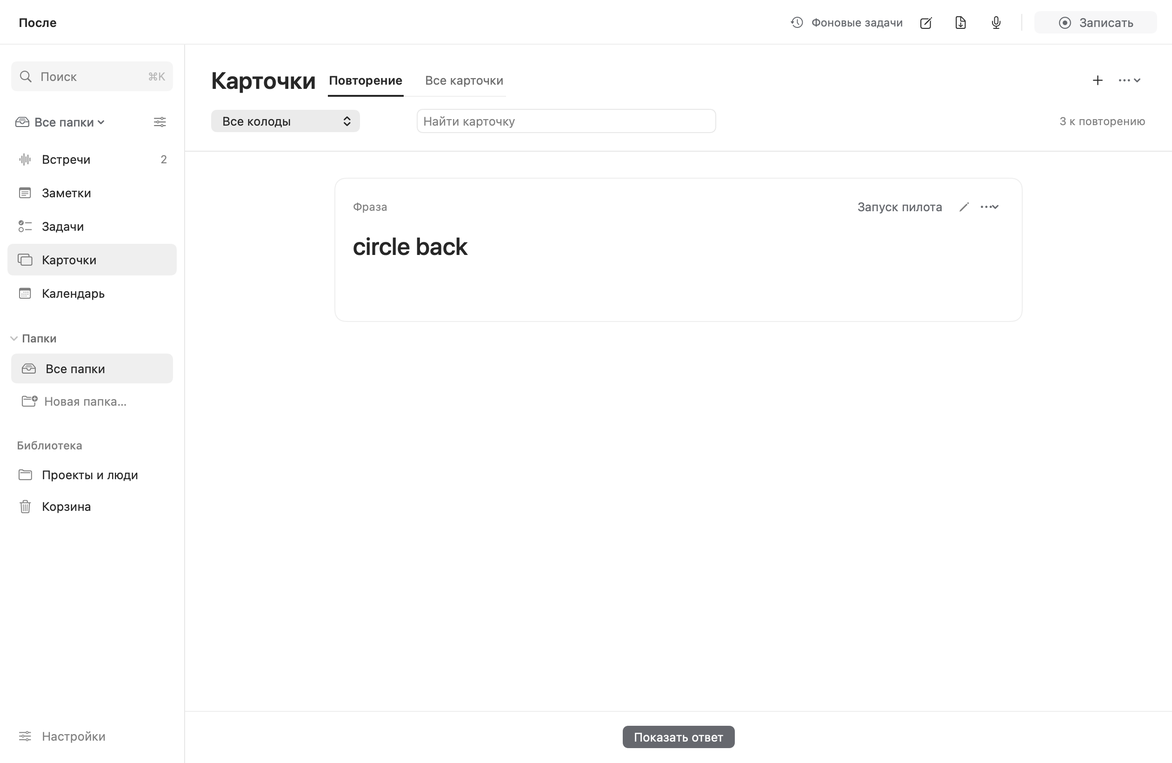
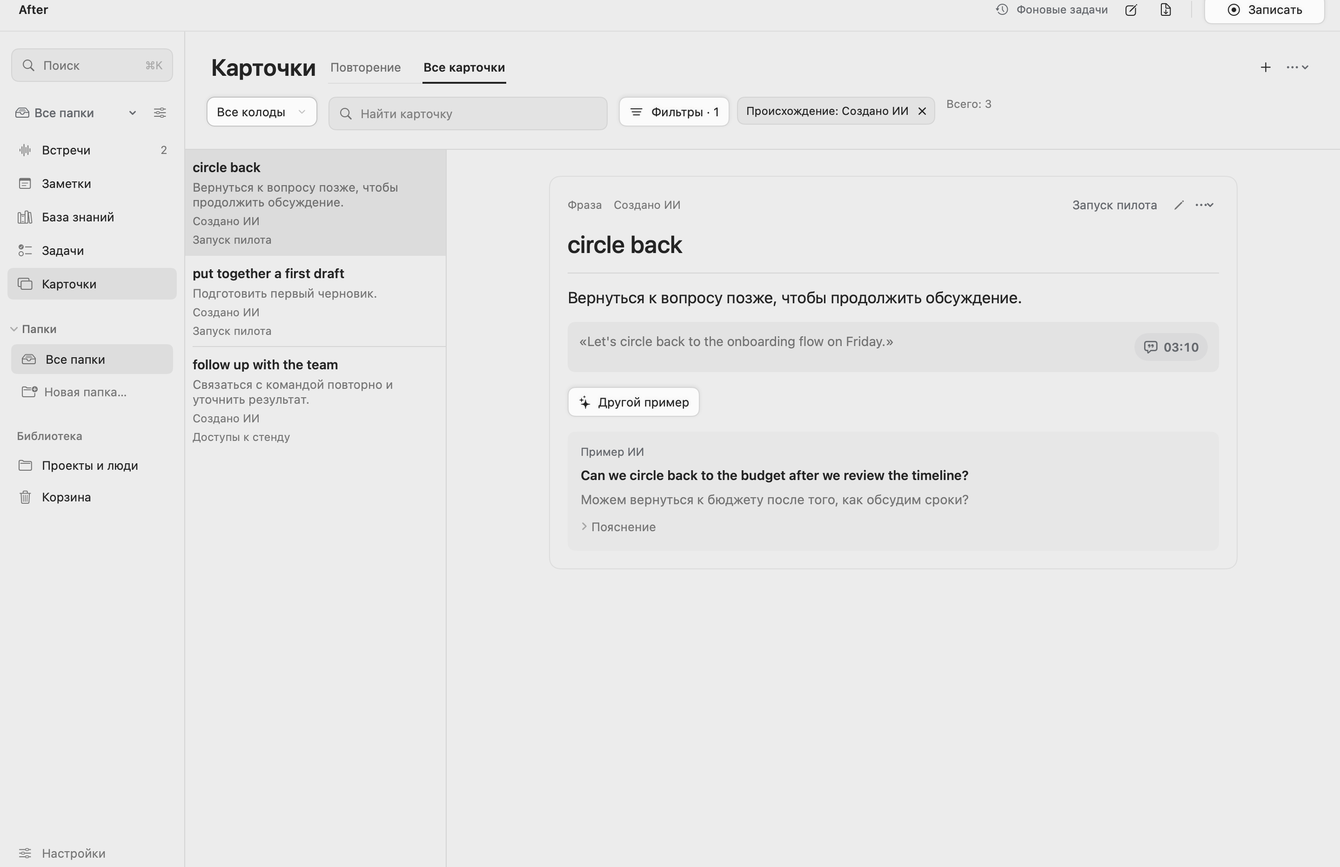
docs: refresh visual README and 0.18.3 search notes

diff --git a/README.md b/README.md
@@ -2,109 +2,59 @@
 
 # After
 
-Нативное приложение для Mac, чтобы не переслушивать встречи в поисках решений,
-задач и важных деталей. Здесь же можно вести заметки, планировать дела и повторять
-полезные фразы.
+Приложение для Mac: встречи, заметки, задачи и база знаний в одной библиотеке.
+Сохраняйте решения и возвращайтесь к источнику, когда нужны подробности.
 
-After доступен на русском и английском; название одинаково для всех языков. По умолчанию язык берётся
-из macOS; изменить его можно в **Настройки → Общие → Язык интерфейса**.
+**[Скачать последнюю версию](https://github.com/starkovsavva/after/releases/latest)**
+· Apple Silicon · macOS 15+ · RU / EN
 
-**[Скачать для Mac](https://github.com/starkovsavva/after/releases)** · Apple Silicon · macOS 15+
+**Встреча → конспект → источник.**
+Запишите разговор или импортируйте аудио. After подготовит транскрипт и конспект:
+решения, задачи и важные детали со ссылками на исходные реплики.
+Название встречи и текст можно исправить после обработки.
 
-Запишите или импортируйте встречу → получите транскрипт и конспект →
-сохраните важное в заметках.
+<a href="docs/screenshots/summary.png"><img src="docs/screenshots/summary.png" width="900" alt="Конспект встречи с решениями, задачами и переходами к исходным репликам"></a>
 
-**Начните с нужного.** Встречи, заметки, конспекты и транскрипты доступны сразу.
-Карточки, задачи и проекты, календарь, помощник, база знаний и смысловой поиск включаются
-отдельно в **Настройках → Возможности**. Выбор сохраняется при обновлении.
-Для каждой папки можно задать свои возможности, язык, стиль конспекта и модель.
-Меню папки над разделами позволяет быстро менять контекст, а значок ползунков рядом
-открывает её возможности. В **Все папки** он открывает общие значения по умолчанию.
-Список **Папки** можно свернуть — выбор и доступ к настройкам остаются под рукой.
-Разделы внутри экрана переключаются текстовыми вкладками; выбранная вкладка отмечена линией.
+**Заметки, которые легко найти.**
+Записывайте свои мысли, сохраняйте важное из встреч, добавляйте вложения.
+Поиск и совместные фильтры по происхождению, типу и теме помогают сузить список.
+Условия можно убрать по одному; выбранные фильтры сохраняются.
 
-![Конспект встречи: решения, задачи, важные детали и переходы к исходным репликам](docs/screenshots/summary.png)
+<a href="docs/screenshots/notes.png"><img src="docs/screenshots/notes.png" width="900" alt="Библиотека заметок: поиск, фильтры и редактор"></a>
 
-## Что умеет After
+**База знаний с контекстом.**
+Собирайте встречи и заметки по темам и в подборки, связывайте материалы вручную.
+Откройте найденную заметку или встречу, чтобы проверить подробности в источнике.
 
-- **[Запись и распознавание](docs/screenshots/recording.png).** Микрофон и звук Mac в MP3 с выбором качества. Экран для звука Mac или видео выбирается в системном окне macOS на каждую запись. По желанию — видео всего выбранного экрана, 30 кадров/с. Parakeet, Whisper или облачное распознавание; русский и английский, [разделение собеседников и правка реплик](docs/screenshots/transcript.png).
-- **Конспекты и заметки.** Решения, задачи, сроки и детали со ссылками на исходные реплики. Транскрипт копируется в Markdown одной кнопкой. Контекст о вашей роли и цели встречи помогает выделять главное. Свои заметки поддерживают форматирование, чеклисты, папки, теги, вложения и распознавание текста на изображениях.
-- **База знаний.** Встречи и заметки по темам, сохранённые подборки и ручные связи с переходом к источнику. Встроенная локальная модель помогает находить материалы по смыслу; отдельный сервер не нужен.
-- **[Папки со своими настройками](docs/setup.md#папки-и-профили).** Например, «Английский» с карточками и английским конспектом, «Работа» — с задачами и другой моделью. Настройки наследуются от приложения или задаются для папки. Выбранная папка объединяет её встречи, заметки, задачи и колоды. [Перед записью](docs/screenshots/recording-folder.png) можно выбрать папку и настройку карточек для этой встречи.
-- **[Задачи и контекст](docs/screenshots/contexts.png).** Список и доска с перетаскиванием между статусами, проекты, сроки и ответственные. К задаче можно прикрепить мысль, заметку, файл, фрагмент встречи или папку с кодом. В истории сохраняются изменения, отчёты и артефакты. Через MCP Codex, Claude и другие локальные агенты получают разрешённые материалы, берут задачу в работу и завершают её.
-- **Снимок для агента.** Выберите заметки, просмотрите точную копию и подтвердите доступ на 24 часа. Агент может искать по этим материалам и оставить в истории задачи отчёт с источниками и артефактами. Изменения оригиналов не обновляют переданную копию; доступ можно отозвать.
-- **Карточки внутри приложения.** Создание включается для отдельной встречи или по умолчанию для папки. Повторение по интервалам, перевод и контекст из встречи. Кнопка генерации примера употребления, редактирование, колоды, импорт и экспорт.
-- **[Поиск и помощник](docs/screenshots/assistant.png).** Поиск по словам и по смыслу, в том числе на другом языке. Помощник отвечает по библиотеке и календарю со ссылками на источники, продолжает вопросы и открывает найденные объекты. Голосом можно создавать и дополнять заметки и задачи, массово менять карточки с предпросмотром. Удалённые встречи, заметки, задачи и карточки доступны в Корзине 30 дней. Выбранные папки и репозитории индексируются с переходом к исходному файлу.
-- **Календарь и трекеры.** День, три дня, неделя и месяц; календари Google и Яндекса через macOS. Отдельно подключаются Google Tasks и Яндекс Трекер: выбранные списки, получение и отправка изменений, сверка конфликтов. [Настройка доступа к трекерам](docs/tracker-sync.md).
-- **[Локальные и облачные модели](docs/setup.md).** Модели внутри «After», Ollama, LM Studio, существующие файлы GGUF; загрузка или выбор совместимых уже установленных моделей. Для конспектов и помощника — [подписка ChatGPT](docs/chatgpt.md), OpenAI API, OpenRouter, Polza и совместимые сервисы. Фоновые задачи показывают ход обработки и позволяют повторить ошибку.
-- **[Оформление и обновления](docs/screenshots/appearance.png).** Графит, матовое стекло и Liquid Glass на macOS 26; светлая и тёмная темы, цвет акцента, размер текста, плотность и импорт своих тем. Обновления устанавливаются из приложения с сохранением библиотеки и моделей. В **[Справка → Сообщить об ошибке…](docs/screenshots/bug-report.png)** можно подготовить и скопировать отчёт для разработчика.
-- **[Что изменилось после обновления](docs/screenshots/whats-new.png).** Изменения собраны по возможностям: новым, используемым и пока выключенным. У каждой — описание, отметка прочтения и переход в её настройки. Окно можно открыть повторно через **Справка → Что нового**.
+<a href="docs/screenshots/knowledge.png"><img src="docs/screenshots/knowledge.png" width="900" alt="База знаний: темы, подборки и связанные материалы"></a>
 
-## Как это выглядит
+**Задача → разрешённый снимок → результат агента.**
+Выберите заметки из базы знаний, проверьте снимок и подтвердите доступ.
+Агент читает эту копию; отчёт, ссылки на источники и артефакты появляются
+в истории задачи. Изменения оригиналов не меняют снимок; доступ можно отозвать.
 
-**Выбор возможностей:** оставьте базовые встречи и заметки или включите нужные инструменты.
+<a href="docs/screenshots/task-history.png"><img src="docs/screenshots/task-history.png" width="900" alt="История задачи: отчёт агента, источники и артефакты"></a>
 
-<a href="docs/screenshots/features.png"><img src="docs/screenshots/features.png" width="680" alt="Настройки возможностей: отдельные переключатели карточек, задач и проектов, календаря, помощника и смыслового поиска"></a>
+**Карточки для повторения.**
+Сохраняйте полезные фразы из встреч, редактируйте перевод и контекст.
+Выберите колоду или отфильтруйте библиотеку и переходите к повторению по интервалам.
 
-**Папки в библиотеке:** создавайте папки, перемещайте встречи и переключайтесь между рабочими контекстами.
+<a href="docs/screenshots/cards-library.png"><img src="docs/screenshots/cards-library.png" width="900" alt="Библиотека карточек с колодами, поиском и фильтрами перед повторением"></a>
 
-<a href="docs/screenshots/folders.png"><img src="docs/screenshots/folders.png" width="680" alt="Папки Английский и Работа в боковой панели; заметки выбранной встречи"></a>
-
-**Разделы для каждой папки:** в английском можно оставить карточки без календаря, в работе — календарь без карточек. Для каждой возможности доступны общие настройки или свой выбор.
-
-<a href="docs/screenshots/folder-features.png"><img src="docs/screenshots/folder-features.png" width="680" alt="Возможности папки: отдельный выбор задач, карточек, календаря, помощника и смыслового поиска; общие настройки и наследование"></a>
-
-**Настройки папки:** свой язык, стиль конспекта, генерация карточек и локальная или облачная модель.
-
-<a href="docs/screenshots/folder-profile.png"><img src="docs/screenshots/folder-profile.png" width="680" alt="Папка Английский: язык конспекта, приоритеты и генерация карточек по умолчанию"></a>
-
-**Язык интерфейса:** русский, English или язык системы. Названия и содержимое ваших материалов остаются без изменений.
-
-<a href="docs/screenshots/interface-language.png"><img src="docs/screenshots/interface-language.png" width="680" alt="After на английском: настройки интерфейса и выбор языка"></a>
-
-**Заметки и задачи:** свои записи с папками и форматированием; задачи с материалами и историей.
-
-<p>
-<a href="docs/screenshots/notes.png"><img src="docs/screenshots/notes.png" width="49%" alt="Заметки: папки, теги и редактор с форматированием"></a>
-<a href="docs/screenshots/tasks.png"><img src="docs/screenshots/tasks.png" width="49%" alt="Задачи: список, контекст, сроки и история работы"></a>
-</p>
-
-**Доска задач:** перетаскивайте карточки между колонками; статус сохраняется в истории. Вкладки используют общий стиль с подчёркиванием.
-
-<a href="docs/screenshots/task-board.png"><img src="docs/screenshots/task-board.png" width="680" alt="Доска задач: четыре статуса, текстовые вкладки Список и Доска, задача перенесена в Готово"></a>
-
-**Карточки и календарь:** повторение с примерами; расписание встреч в выбранном виде.
-
-<p>
-<a href="docs/screenshots/cards.png"><img src="docs/screenshots/cards.png" width="49%" alt="Повторение карточки: фраза, перевод и пример употребления"></a>
-<a href="docs/screenshots/calendar.png"><img src="docs/screenshots/calendar.png" width="49%" alt="Календарь: встречи на временной сетке и выбор вида"></a>
-</p>
-
-**Смысловой поиск и трекеры:** находите выражение по приблизительному описанию; выбирайте, какие списки синхронизировать.
-
-<p>
-<a href="docs/screenshots/search-semantic.png"><img src="docs/screenshots/search-semantic.png" width="49%" alt="Смысловой поиск: запрос на русском находит английскую карточку и исходную реплику"></a>
-<a href="docs/screenshots/tracker-sync.png"><img src="docs/screenshots/tracker-sync.png" width="49%" alt="Google Tasks и Яндекс Трекер: выбранные списки и направление синхронизации"></a>
-</p>
-
-Нажмите на изображение, чтобы открыть его целиком. На скриншотах — вымышленные встречи и заметки.
-[Проекты и люди](docs/screenshots/contexts.png) · [Помощник с источниками](docs/screenshots/assistant.png) · [Голосовое поручение](docs/screenshots/voice.png) · [Все карточки](docs/screenshots/cards-library.png) · [Корзина](docs/screenshots/trash.png)
-
-Поддержать проект можно звездой на GitHub или обратной связью через **Справка → Поддержать After…**. Приложение не отправляет отзыв автоматически: отчёт можно проверить и скопировать.
+На снимках — вымышленные материалы. Нажмите на изображение, чтобы открыть целиком.
 
 ## Установка
 
-1. Скачайте установщик **.pkg** из [Releases](https://github.com/starkovsavva/after/releases).
-2. Запустите установщик. Он установит приложение с сохранением библиотеки.
-3. Выберите модели и нужные возможности в настройках: [первый запуск и подключения](docs/setup.md).
+1. Скачайте **.pkg** по ссылке выше и запустите установщик.
+2. Выберите модели и нужные возможности: [первый запуск и подключения](docs/setup.md).
+3. Следующие обновления доступны в **Настройки → Обновления**.
 
-Следующие версии можно устанавливать из приложения: **Настройки → Обновления**.
+Сборка без нотариализации Apple. Если macOS блокирует запуск, используйте
+[штатное разрешение запуска](https://support.apple.com/102445).
 
-Сборка без нотариализации Apple. Если macOS блокирует запуск, воспользуйтесь
-[штатным разрешением запуска](https://support.apple.com/102445).
+Записи и библиотека хранятся на Mac. Можно выбрать локальные модели или облако;
+при работе с облаком аудио или текст отправляются выбранному провайдеру.
+API оплачивается отдельно; подключение ChatGPT использует лимиты подписки.
 
-Записи и библиотека хранятся на Mac. При выборе облака аудио или текст отправляются
-выбранному провайдеру. API оплачивается отдельно; ChatGPT использует лимиты подписки.
-Ключи и сессии хранятся в Связке ключей macOS.
-
-[Сборка и проверки](docs/development.md) · [Архитектура](docs/architecture.md) · [MIT](LICENSE) · [Сторонние компоненты](THIRD_PARTY.md)
+[Модели и настройка](docs/setup.md) · [ChatGPT](docs/chatgpt.md) ·
+[Сборка и проверки](docs/development.md) · [MIT](LICENSE)

diff --git a/docs/releases/0.18.3.md b/docs/releases/0.18.3.md
@@ -4,6 +4,7 @@
 
 Удобнее отбирать заметки и карточки, сохраняя порядок в библиотеке.
 
+- **Строки поиска.** Спокойный фон без яркой нативной рамки, высота не меньше 36 pt и больше места для текста. Единое оформление в библиотеке, карточках, базе знаний, подборках и вспомогательных панелях.
 - **Единые фильтры.** Добавляйте условия по происхождению, готовой теме и типу материала. Активные условия можно сочетать и удалять по отдельности; выбор сохраняется между открытиями.
 - **Карточки.** Фильтры работают вместе с поиском, выбором колоды и режимом повторения. Тема источника отбирает карточки из встреч, входящих в выбранную тему.
 - **Происхождение материалов.** Ручные, созданные ИИ и импортированные материалы различаются метками. Правки и восстановление копии сохраняют происхождение; у старых материалов оно может быть неизвестно.
@@ -13,6 +14,7 @@
 
 Find the notes and flashcards you need while keeping your library organized.
 
+- **Search fields.** A softer background, no bright native bezel, a minimum height of 36 pt, and more room for text. Consistent styling across the library, flashcards, knowledge base, collections, and supporting panels.
 - **Unified filters.** Add conditions for origin, an existing topic, and material type. Combine conditions or remove them individually; your selection is saved between visits.
 - **Flashcards.** Filters work with search, deck selection, and review mode. Source topics select cards from meetings included in the chosen topic.
 - **Material origin.** Labels distinguish manual, AI-created, and imported materials. Edits and copy recovery preserve their origin; older materials may have an unknown origin.

diff --git a/docs/design-system.md b/docs/design-system.md
@@ -89,6 +89,21 @@ Apple рекомендует [привычные платформенные со
 Это правило не обещает произвольную сортировку внутри колонки, массовый перенос
 или перенос во внешние приложения: это отдельные сценарии.
 
+## Строки поиска
+
+Поисковые поля используют `afterSearchField()`; уже собранные строки с иконкой,
+кнопкой очистки или индикатором используют `afterSearchFieldSurface()`.
+Минимальная высота — 36 pt, внутренние отступы — 11 pt по горизонтали и 8 pt
+по вертикали. Фон `Ink.soft`, тонкая граница `Ink.line`, радиус 8 pt. В режиме
+повышенного контраста граница заметнее. Акцентная рамка появляется только при
+явно переданном состоянии фокуса.
+
+Декорация сохраняет исходный `TextField`: его binding фокуса, идентификатор,
+подпись, ввод, Return и навигация стрелками остаются у вызывающего экрана.
+Ширину задаёт контекст: в горизонтальных панелях поиска карточек и Корзины
+используется гибкий диапазон 240–360 pt; боковые панели заполняют доступное место.
+Нативный `.roundedBorder` остаётся у полей форм, а не у поиска.
+
 ## Фильтры материалов и происхождение
 
 Рядом с поиском находится одна мягкая кнопка «Фильтры» со счётчиком активных
